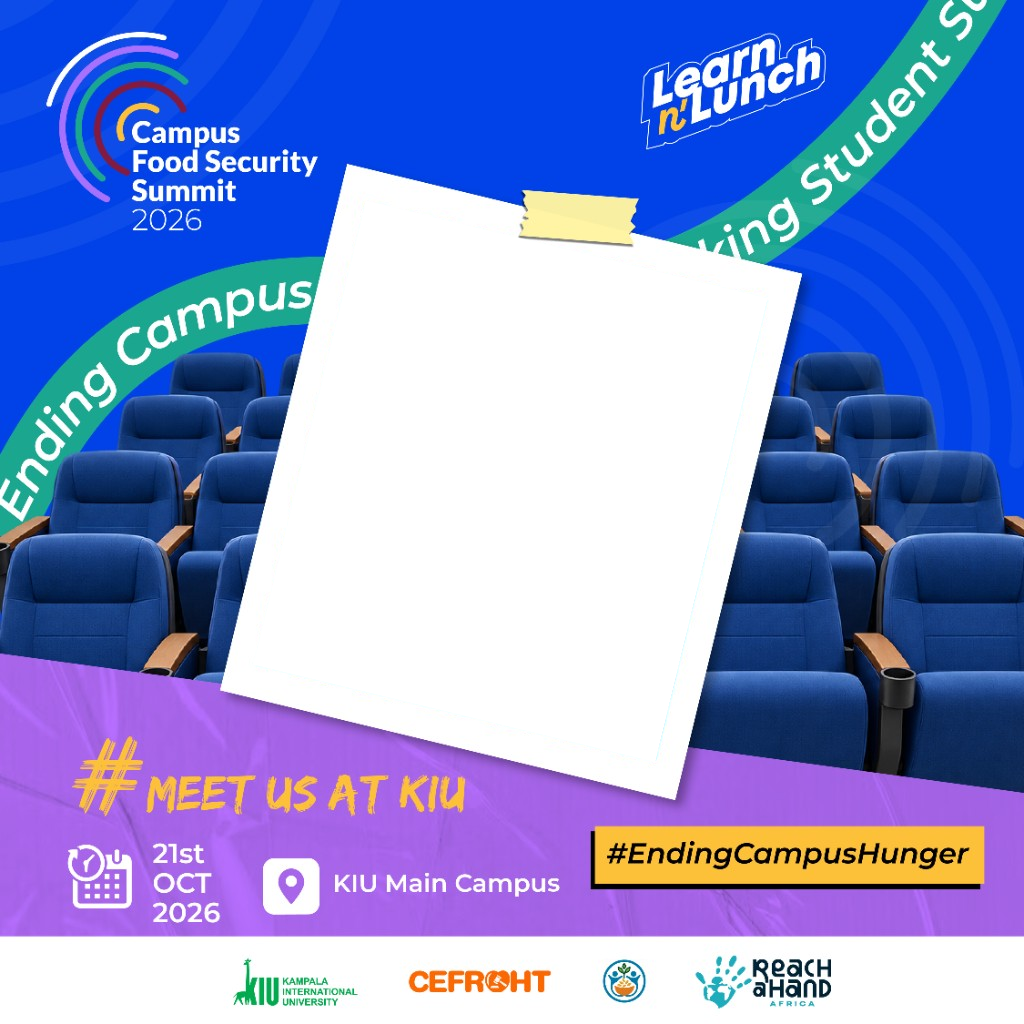
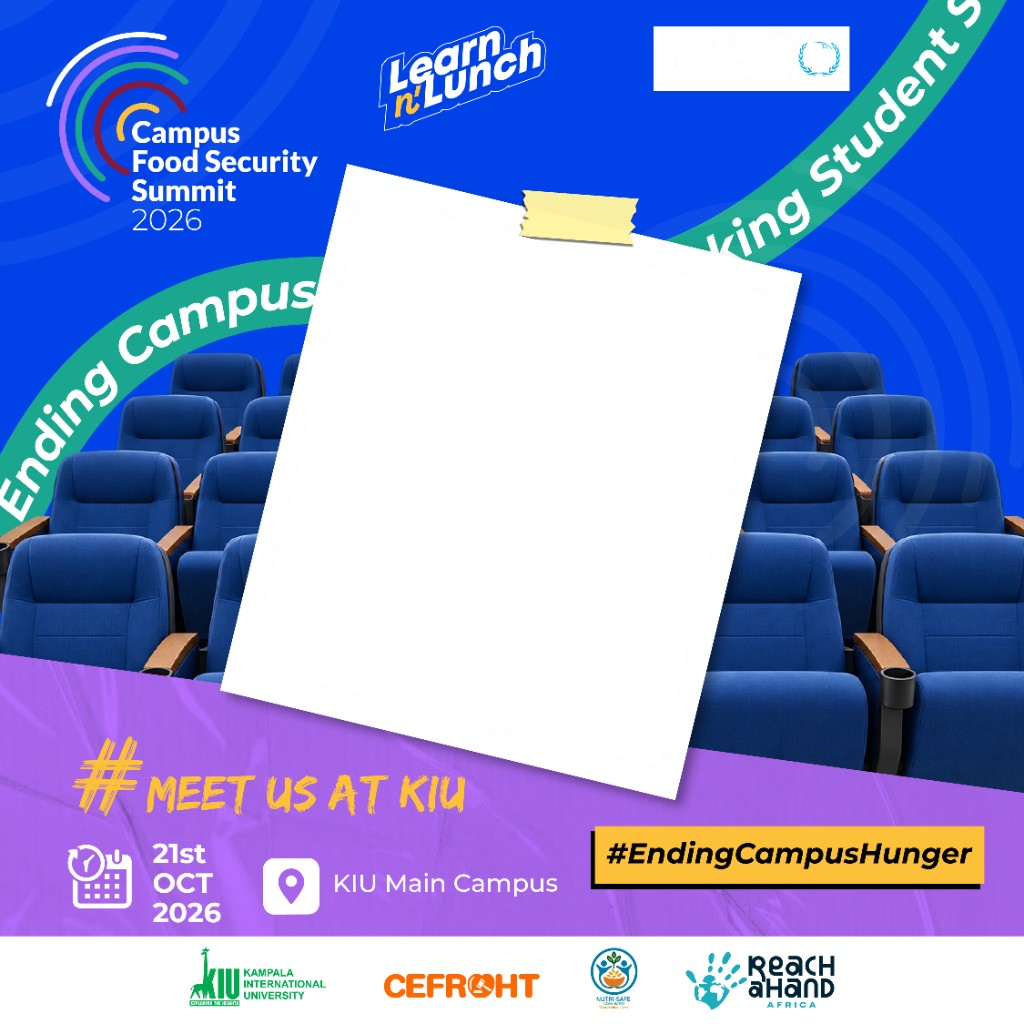
i will be there

diff --git a/ill-be-there/index.html b/ill-be-there/index.html
@@ -69,7 +69,7 @@
     </nav>
 <main id="main-content">
 
-<section class="lnl-poster" id="summit-poster" data-overlay="../summit-poster/template-overlay.png?v=5">
+<section class="lnl-poster" id="summit-poster" data-overlay="../summit-poster/template-overlay.png?v=6">
   <div class="lnl-poster__screen">
     <div class="lnl-poster__intro">
       <p class="lnl-poster__eyebrow">Campus Food Security Summit 2026</p>
@@ -80,7 +80,7 @@
     <div class="lnl-poster__studio">
       <div class="lnl-poster__stage">
         <canvas class="lnl-poster__canvas" width="1024" height="1024" aria-label="Summit poster preview"></canvas>
-        <img class="lnl-poster__fallback" src="../summit-poster/template.jpg?v=4" alt="Campus Food Security Summit 2026 I'll Be There poster" width="1024" height="1024">
+        <img class="lnl-poster__fallback" src="../summit-poster/template.jpg?v=5" alt="Campus Food Security Summit 2026 I'll Be There poster" width="1024" height="1024">
         <p class="lnl-poster__empty" data-empty>Upload a photo to place it in the frame. Drag to move. Pinch to zoom.</p>
       </div>
     </div>

diff --git a/summit-poster/index.html b/summit-poster/index.html
@@ -69,7 +69,7 @@
     </nav>
 <main id="main-content">
 
-<section class="lnl-poster" id="summit-poster" data-overlay="../summit-poster/template-overlay.png?v=5">
+<section class="lnl-poster" id="summit-poster" data-overlay="../summit-poster/template-overlay.png?v=6">
   <div class="lnl-poster__screen">
     <div class="lnl-poster__intro">
       <p class="lnl-poster__eyebrow">Campus Food Security Summit 2026</p>
@@ -80,7 +80,7 @@
     <div class="lnl-poster__studio">
       <div class="lnl-poster__stage">
         <canvas class="lnl-poster__canvas" width="1024" height="1024" aria-label="Summit poster preview"></canvas>
-        <img class="lnl-poster__fallback" src="../summit-poster/template.jpg?v=4" alt="Campus Food Security Summit 2026 I'll Be There poster" width="1024" height="1024">
+        <img class="lnl-poster__fallback" src="../summit-poster/template.jpg?v=5" alt="Campus Food Security Summit 2026 I'll Be There poster" width="1024" height="1024">
         <p class="lnl-poster__empty" data-empty>Upload a photo to place it in the frame. Drag to move. Pinch to zoom.</p>
       </div>
     </div>

diff --git a/js/summit-poster.js b/js/summit-poster.js
@@ -6,15 +6,15 @@
   const HOLE_CYAN = "#00adef";
   const HOLE = {
     corners: [
-      [368, 204],
-      [764, 300],
-      [655, 758],
-      [257, 662]
+      [364, 200],
+      [834, 50],
+      [659, 762],
+      [253, 666]
     ],
-    center: [510.67, 481.53],
-    angle: Math.atan2(300 - 204, 764 - 368),
-    width: Math.hypot(764 - 368, 300 - 204),
-    height: Math.hypot(368 - 257, 204 - 662)
+    center: [511.5, 481],
+    angle: Math.atan2(50 - 200, 834 - 364),
+    width: Math.hypot(834 - 364, 50 - 200),
+    height: Math.hypot(253 - 364, 666 - 200)
   };
 
   const canvas = root.querySelector(".lnl-poster__canvas");

diff --git a/scripts/lib/pages/summit-poster.js b/scripts/lib/pages/summit-poster.js
@@ -8,8 +8,8 @@ const {
 
 function renderSummitPoster({ site, page }) {
   const depth = 1;
-  const overlaySrc = resolveAsset(depth, "summit-poster/template-overlay.png") + "?v=5";
-  const previewSrc = resolveAsset(depth, "summit-poster/template.jpg") + "?v=4";
+  const overlaySrc = resolveAsset(depth, "summit-poster/template-overlay.png") + "?v=6";
+  const previewSrc = resolveAsset(depth, "summit-poster/template.jpg") + "?v=5";
   const shareCaption = String(page.shareCaption || "").trim();
 
   const body = `
